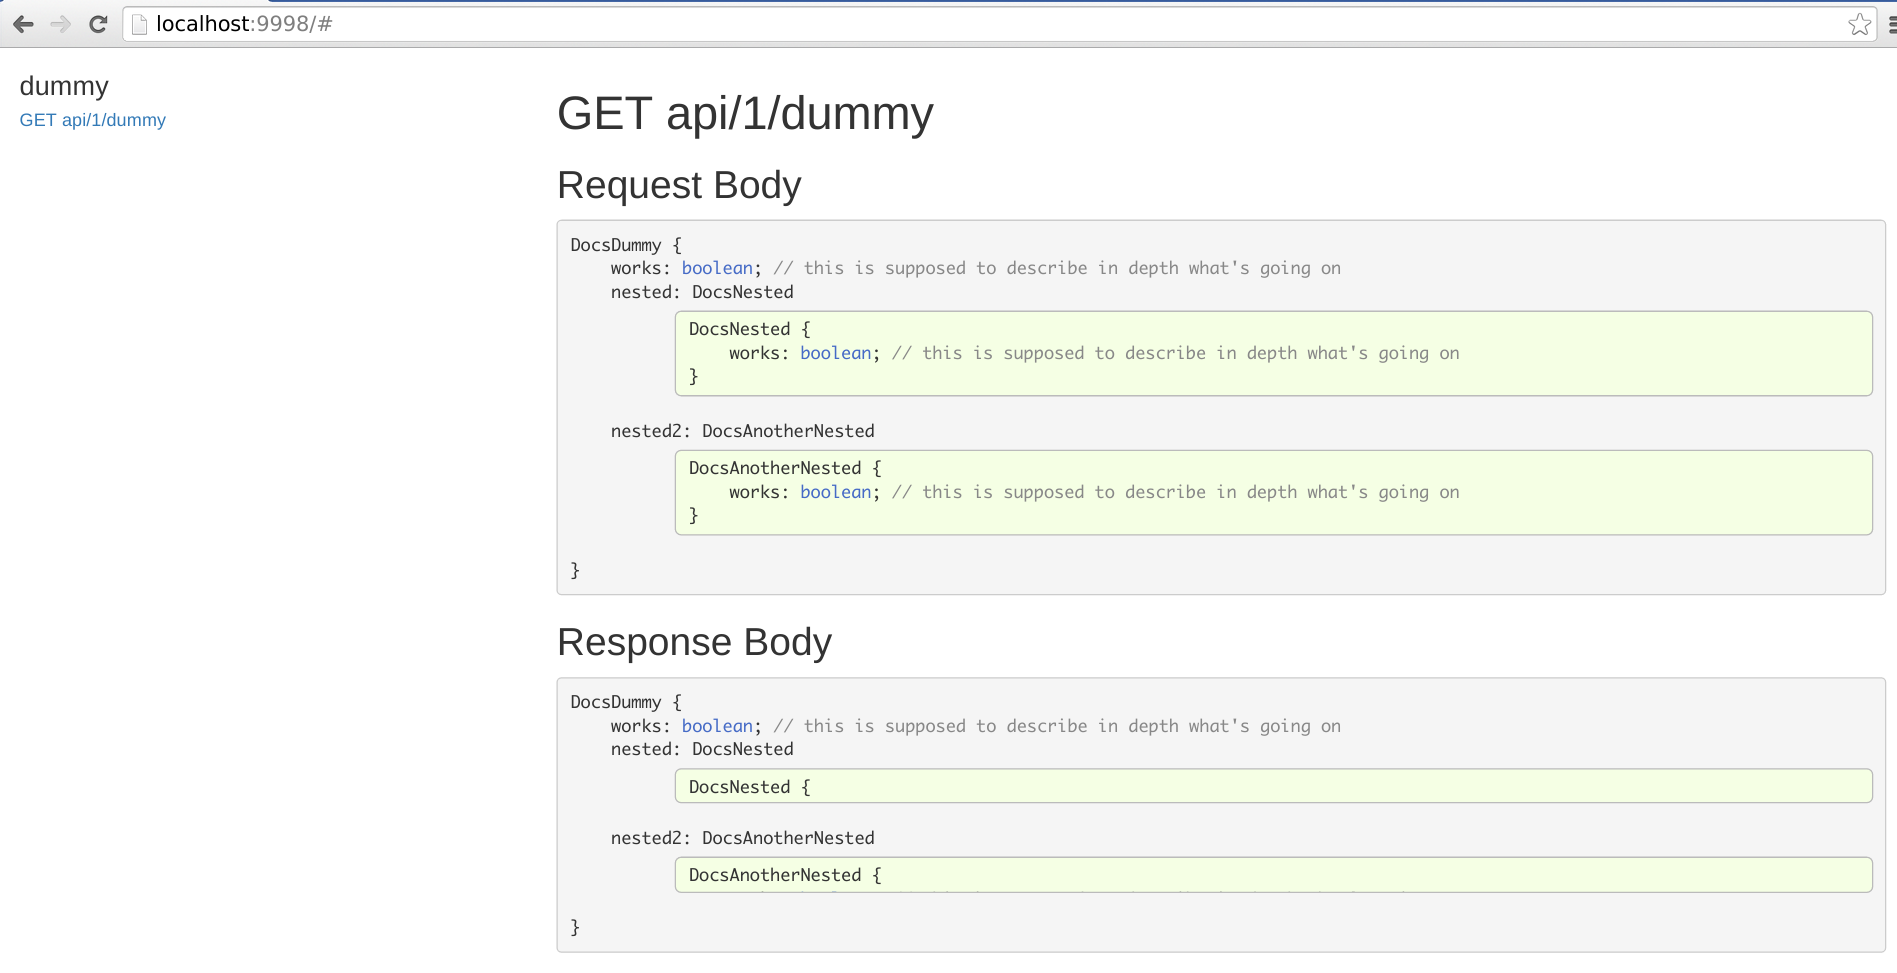
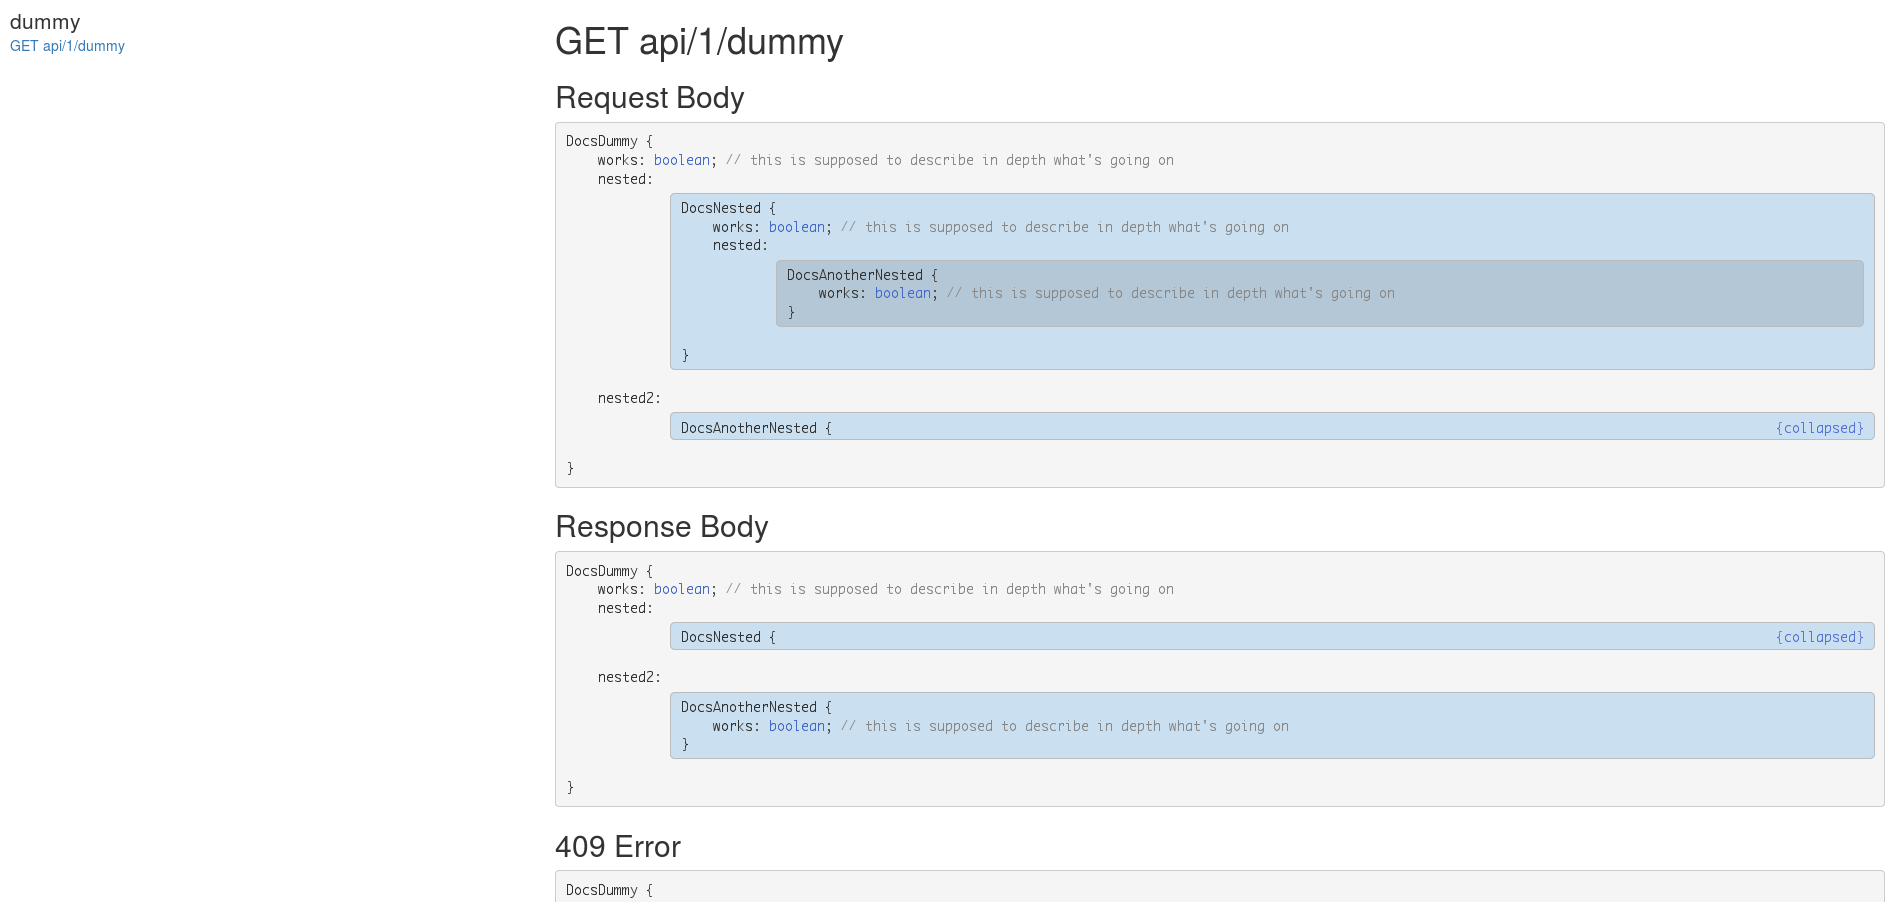
Add support for fetching deep nested interfaces.

Changed region(s): [[0.2802, 0.0931, 0.9963, 0.9933], [0.0, 0.0, 1.0, 0.1552]]

diff --git a/server.js b/server.js
@@ -5,7 +5,7 @@ var hljs = require('highlight.js');
 var cfg;
 var rgx = new RegExp(/\bimport ([^\s]+) = require\((?:'|")([^'"]+)/g);
 
-function read(path) {
+function readFile(path) {
     return fs.readFileSync(path, 'utf8');
 }
 
@@ -13,17 +13,21 @@ function hl(code) {
     return hljs.highlight('typescript', code).value;
 }
 
-function strip(code) {
+function stripInterfaceKeywords(code) {
     return code.replace('interface ', '');
 }
 
-function stripLines(code, number){
+function stripLines(code, number) {
     var lines = code.split('\n');
-    if(number){
+
+    if (number) {
         number += 1; // because of new line between imports and the actual interface
         lines.splice(0,number);
     }
-    lines.pop();
+
+    lines.pop(); // remove export= line
+    lines.pop(); // remove export= line
+
     return lines.join('\n');
 }
 
@@ -43,7 +47,7 @@ function wrap(code, descriptor) {
     return h2(descriptor.name) + wrapCode(code);
 }
 
-function extractNested(code) {
+function extractNameAndPathsForNestedScripts(code) {
     var matches = [];
     var match;
 
@@ -56,9 +60,35 @@ function extractNested(code) {
 
 function prepare(code, numberOfImportLines) {
     code = stripLines(code, numberOfImportLines);
-    code = strip(code);
+    code = stripInterfaceKeywords(code);
     code = hl(code);
     return code;
+}
+
+function parseScript(path, basePath) {
+    var code = readFile(path);
+    var nestedCode = extractNameAndPathsForNestedScripts(code);
+    var l = nestedCode.length;
+    var i;
+    var j;
+    var v;
+    var temp;
+    var code;
+
+    code = prepare(code, l);
+
+    for (i = 0; i < l; i ++) {
+        v = nestedCode[i];
+        temp = parseScript(basePath + v[1] + '.d.ts', basePath);
+        code = code.replace(v[0]+';', '<div class="nested">'+temp+'</div>');
+        code = code.replace('&lt;'+v[0]+'&gt;;', '<div class="nested">'+temp+'</div>');
+    }
+
+    return code;
+}
+
+function constructCodeFromDescriptor(descriptor) {
+    return wrap(parseScript(descriptor.path, descriptor.nestingBasePath), descriptor);
 }
 
 app.get('/', function (req, res) {
@@ -86,33 +116,6 @@ app.get('/config/', function (req, res) {
         res.end(data);
     });
 });
-
-function constructCodeFromDescriptor(descriptor) {
-    var code;
-    var nestedCode;
-    var temp;
-    var i;
-    var l;
-    var v;
-
-    code = read(descriptor.path);
-
-    nestedCode = extractNested(code);
-    l = nestedCode.length;
-
-    code = prepare(code, l);
-
-    for (i = 0; i < l; i ++) {
-        v = nestedCode[i];
-
-        temp = read(descriptor.nestingBasePath + v[1]+'.d.ts');
-        temp = prepare(temp, 0);
-
-        code = code.replace(v[0]+';', v[0]+'<div class="nested">'+temp+'</div>');
-    }
-
-    return wrap(code, descriptor);
-}
 
 app.get('/routes/:cat/:pos', function (req, res) {
     var routes = cfg[req.params.cat].routes[req.params.pos];

diff --git a/index.html b/index.html
@@ -31,15 +31,23 @@
     }
     .nested {
         cursor: pointer;
-        background: rgb(245, 255, 228);
+        background: rgb(202, 224, 240);
         border-radius: 5px;
         border: 1px solid #bbb;
         margin: 5px 0 0 8%;
         padding: 5px 10px;
     }
+    .nested .nested {
+        background: rgb(180, 199, 214);
+    }
     .nested.minimized{
         height: 2.125em;
         overflow: hidden;
+    }
+    .nested.minimized::before{
+        content:  "{collapsed}";
+        color: #5873D6;
+        float: right;
     }
     .resource-name{
         display: block;
@@ -55,8 +63,9 @@
 <script type="text/javascript">
 
 function bindClicksOnNested() {
-    $(document).off('click.nested').on('click', '.nested', function() {
+    $(document).off('click.nested').on('click', '.nested', function(e) {
         $(this).toggleClass('minimized');
+        e.stopPropagation();
     });
 }
 

diff --git a/docs-nested.d.ts b/docs-nested.d.ts
@@ -1,5 +1,8 @@
+import DocsAnotherNested = require('./docs-another-nested2');
+
 interface DocsNested {
     works: boolean; // this is supposed to describe in depth what's going on
+    nested: DocsAnotherNested;
 }
 
 export = DocsNested;
